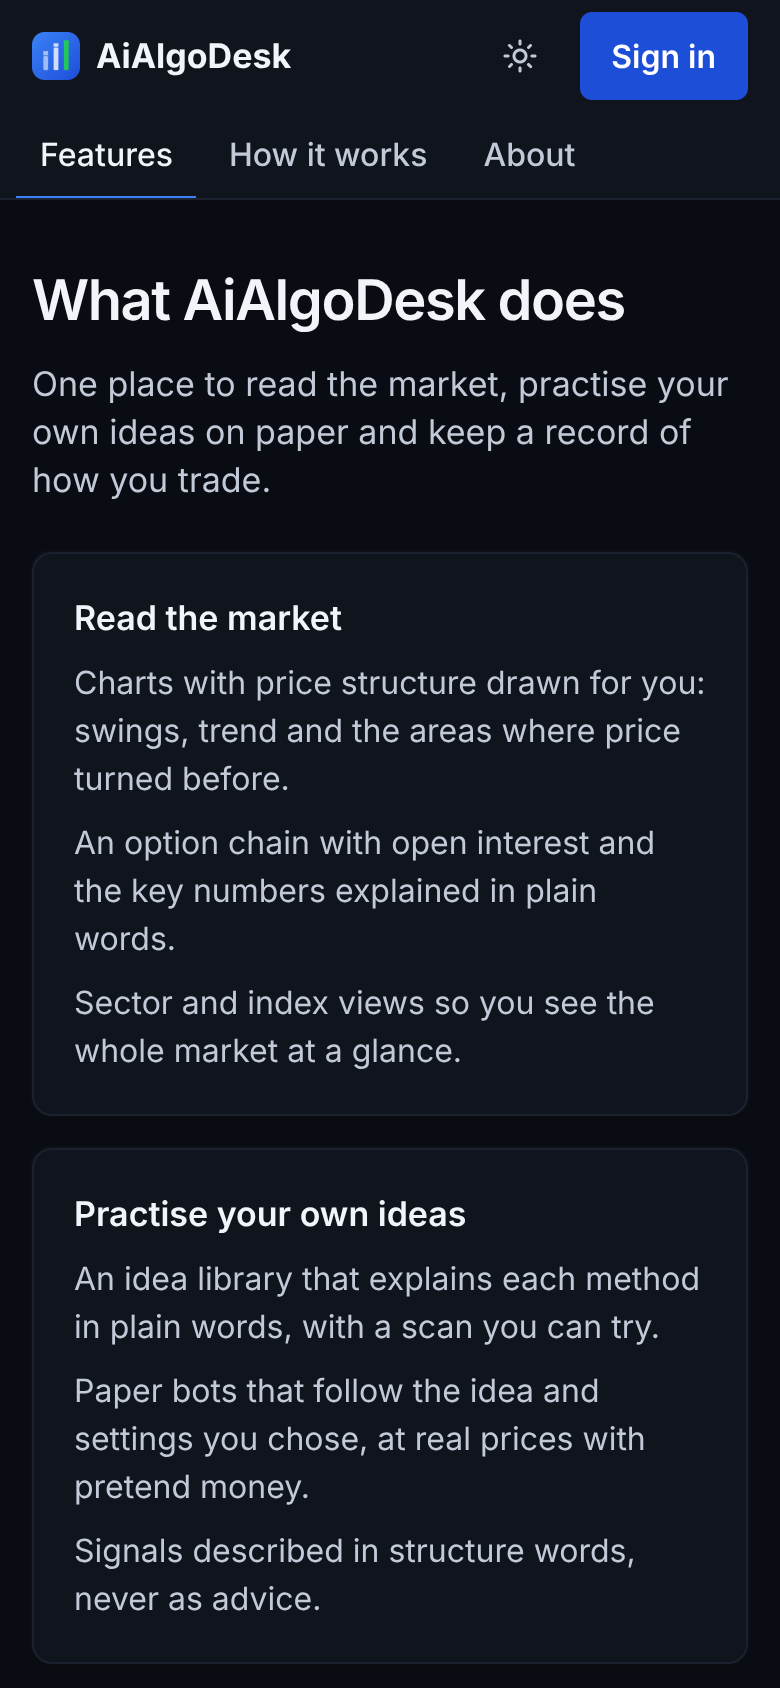
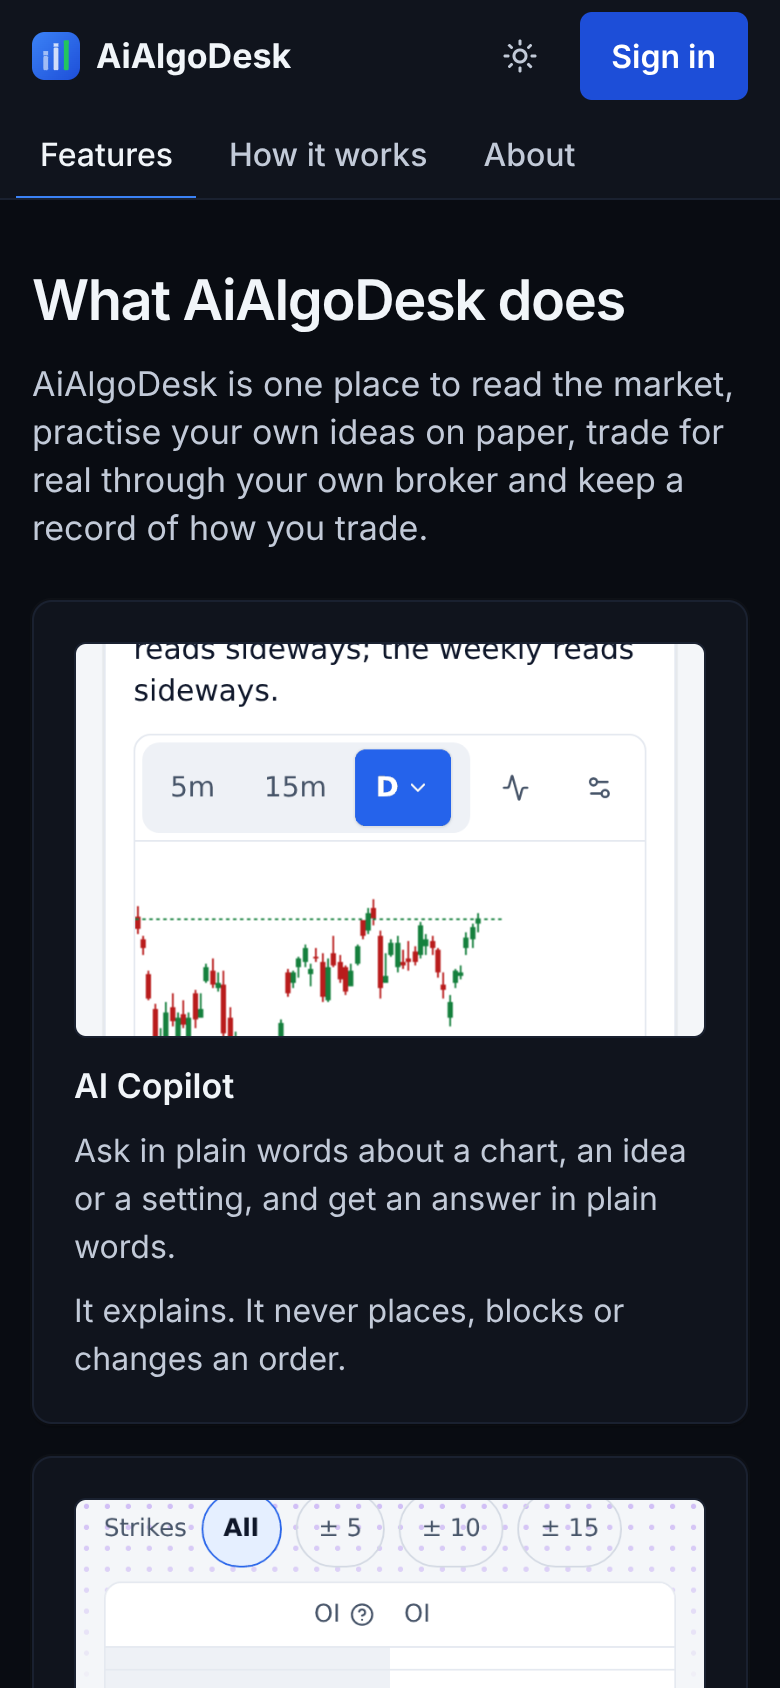
M95: Paper & Real Trading wording (front door, link preview, site) (#992)
* M95-Q8: Paper & Real Trading wording on the front door, link preview tags and site pages

Claude-Session: https://claude.ai/code/session_01DartbPxmHrAyA5TTsS4Pys

* M95-Q8: the link-preview image says Paper & Real Trading; preview proofs re-made

Claude-Session: https://claude.ai/code/session_01DartbPxmHrAyA5TTsS4Pys

* M95-Q8: sign-in and site e2e baselines; front door after screenshots (390 / 1440 light)

Claude-Session: https://claude.ai/code/session_01DartbPxmHrAyA5TTsS4Pys

* M95-Q8: the manifest's Features screenshots with the new intro

Claude-Session: https://claude.ai/code/session_01DartbPxmHrAyA5TTsS4Pys

---------

diff --git a/frontend/src/i18n/frontDoor.ts b/frontend/src/i18n/frontDoor.ts
@@ -8,11 +8,13 @@
  * src/auth/FrontDoor.tsx (and tests) may import this file.
  * Text rules (CLAUDE.md §3, M95 §4): no profit or accuracy claims, no testimonials, no trade-call words; the answers say
  * only what the code does. `{brokers}` and `{title}` are filled in by FrontDoor.tsx.
+ * M95-Q8 (owner, 11 Nov): the headline, the steps and one FAQ name both paper and real trading - real trading goes
+ * through the user's own broker and the user places every order; "Paper by default" stays (it is still true).
  */
 export const FRONT_EN = {
   langName: "English",
   langLabel: "Language",
-  headline: "Learn, analyse and practise trading on paper, for Indian markets.",
+  headline: "Paper & Real Trading for Indian markets: practise on paper, and trade for real with your own broker.",
   benefitsTitle: "What you get",
   copilotTitle: "AI Copilot",
   copilotText: "Ask about a chart or an idea in plain words. It explains; you decide.",
@@ -30,8 +32,8 @@ export const FRONT_EN = {
   stepsTitle: "Start in 3 steps",
   step1Google: "Continue with Google",
   step1Email: "Sign in with your email",
-  step2: "Connect your broker if you want live prices",
-  step3: "Practise on paper",
+  step2: "Connect your own broker for live prices and real trading",
+  step3: "Practise on paper first, then trade for real when you choose",
   trust1: "No order is placed without you",
   trust2: "Your broker data stays yours",
   trust3: "Paper by default",
@@ -45,6 +47,8 @@ export const FRONT_EN = {
   faqSafeA: "AiAlgoDesk does not hold your trading money; it stays in your own broker account. Your broker keys are stored encrypted. The AI never places, changes or blocks an order, and paper trading is the default.",
   faqPaperQ: "What is paper trading?",
   faqPaperA: "Practice trading with pretend money on market prices. The trades are recorded in the app only; no order goes to your broker.",
+  faqRealQ: "Can I trade for real?",
+  faqRealA: "Yes, through your own broker account, and you place every order yourself. Paper is the default.",
   videoLabel: "Watch the 60-second intro",
   footer: "Information and education only, not investment advice.",
 } as const;
@@ -52,7 +56,7 @@ export const FRONT_EN = {
 export const FRONT_MR = {
   langName: "मराठी",
   langLabel: "भाषा",
-  headline: "भारतीय बाजारासाठी: ट्रेडिंग शिका, चार्टचे विश्लेषण करा आणि paper वर सराव करा.",
+  headline: "भारतीय बाजारासाठी Paper & Real Trading: paper वर सराव करा, आणि तुमच्या स्वतःच्या broker मार्फत खरे ट्रेडिंग करा.",
   benefitsTitle: "तुम्हाला काय मिळते",
   copilotTitle: "AI Copilot",
   copilotText: "चार्ट किंवा कल्पनेबद्दल साध्या शब्दांत विचारा. तो समजावून सांगतो; निर्णय तुमचा.",
@@ -70,8 +74,8 @@ export const FRONT_MR = {
   stepsTitle: "3 पायऱ्यांत सुरुवात",
   step1Google: "Google ने पुढे जा",
   step1Email: "तुमच्या email ने sign in करा",
-  step2: "Live किमती हव्या असल्यास तुमचा broker जोडा",
-  step3: "Paper वर सराव करा",
+  step2: "Live किमती आणि खऱ्या ट्रेडिंगसाठी तुमचा स्वतःचा broker जोडा",
+  step3: "आधी paper वर सराव करा, मग हवे तेव्हा खरे ट्रेडिंग करा",
   trust1: "तुमच्याशिवाय कोणतीही order दिली जात नाही",
   trust2: "तुमचा broker data तुमचाच राहतो",
   trust3: "Paper हीच मूळ निवड",
@@ -85,6 +89,8 @@ export const FRONT_MR = {
   faqSafeA: "AiAlgoDesk तुमचे ट्रेडिंगचे पैसे ठेवत नाही; ते तुमच्या स्वतःच्या broker खात्यातच राहतात. तुमच्या broker keys encrypted ठेवल्या जातात. AI कधीही order देत, बदलत किंवा अडवत नाही, आणि paper ट्रेडिंग हीच मूळ निवड आहे.",
   faqPaperQ: "Paper trading म्हणजे काय?",
   faqPaperA: "बाजारभावावर काल्पनिक पैशांनी ट्रेडिंगचा सराव. हे trades फक्त app मध्ये नोंदवले जातात; broker कडे कोणतीही order जात नाही.",
+  faqRealQ: "खरे ट्रेडिंग करता येते का?",
+  faqRealA: "हो, तुमच्या स्वतःच्या broker खात्यातून, आणि प्रत्येक order तुम्ही स्वतः देता. Paper हीच मूळ निवड आहे.",
   videoLabel: "60 सेकंदांचा परिचय पाहा",
   footer: "फक्त माहिती आणि शिक्षणासाठी, गुंतवणुकीचा सल्ला नाही.",
 } as const;
@@ -92,7 +98,7 @@ export const FRONT_MR = {
 export const FRONT_HI = {
   langName: "हिन्दी",
   langLabel: "भाषा",
-  headline: "भारतीय बाज़ार के लिए: ट्रेडिंग सीखें, चार्ट का विश्लेषण करें और paper पर अभ्यास करें।",
+  headline: "भारतीय बाज़ार के लिए Paper & Real Trading: paper पर अभ्यास करें, और अपने ख़ुद के broker से असली ट्रेडिंग करें।",
   benefitsTitle: "आपको क्या मिलता है",
   copilotTitle: "AI Copilot",
   copilotText: "चार्ट या किसी विचार के बारे में आसान शब्दों में पूछें। वह समझाता है; फ़ैसला आपका।",
@@ -110,8 +116,8 @@ export const FRONT_HI = {
   stepsTitle: "3 कदमों में शुरुआत",
   step1Google: "Google से आगे बढ़ें",
   step1Email: "अपने email से sign in करें",
-  step2: "Live कीमतें चाहिए तो अपना broker जोड़ें",
-  step3: "Paper पर अभ्यास करें",
+  step2: "Live कीमतों और असली ट्रेडिंग के लिए अपना ख़ुद का broker जोड़ें",
+  step3: "पहले paper पर अभ्यास करें, फिर जब चाहें असली ट्रेडिंग करें",
   trust1: "आपके बिना कोई order नहीं दिया जाता",
   trust2: "आपका broker data आपका ही रहता है",
   trust3: "Paper ही मूल चुनाव है",
@@ -125,6 +131,8 @@ export const FRONT_HI = {
   faqSafeA: "AiAlgoDesk आपका ट्रेडिंग का पैसा नहीं रखता; वह आपके अपने broker खाते में ही रहता है। आपकी broker keys encrypted रखी जाती हैं। AI कभी order नहीं देता, नहीं बदलता और नहीं रोकता, और paper ट्रेडिंग ही मूल चुनाव है।",
   faqPaperQ: "Paper trading क्या है?",
   faqPaperA: "बाज़ार भाव पर काल्पनिक पैसों से ट्रेडिंग का अभ्यास। ये trades सिर्फ़ app में दर्ज होते हैं; broker को कोई order नहीं जाता।",
+  faqRealQ: "क्या असली ट्रेडिंग कर सकते हैं?",
+  faqRealA: "हाँ, अपने ख़ुद के broker खाते से, और हर order आप ख़ुद देते हैं। Paper ही मूल चुनाव है।",
   videoLabel: "60 सेकंड का परिचय देखें",
   footer: "सिर्फ़ जानकारी और शिक्षा के लिए, निवेश सलाह नहीं।",
 } as const;

diff --git a/frontend/index.html b/frontend/index.html
@@ -3,32 +3,33 @@
   <head>
     <meta charset="UTF-8" />
     <meta name="viewport" content="width=device-width, initial-scale=1.0, viewport-fit=cover, interactive-widget=resizes-content" />
-    <title>AiAlgoDesk · Learn to read the market and practise trading on paper</title>
-    <meta name="description" content="AI Copilot, option chain with OI and paper trading for Indian markets. Practise on paper with no money needed." />
+    <title>AiAlgoDesk · Paper & Real Trading for Indian markets</title>
+    <meta name="description" content="AI Copilot, option chain with OI, and paper and real trading for Indian markets. Practise on paper first; real trading goes through your own broker." />
     <!-- C13: SEO basics for the public front page. The public pages update the title, description and canonical address
          as they open (applySeo in src/site/site.ts) - in the browser only. M95 F1: link previews (WhatsApp, Telegram) do
          not run scripts, so they read the tags below on every address: plain words, the 1200 x 630 card
          (public/og/front-door.png, made by scripts/og-image/) and og:description in English + the same sentence in
-         Marathi (M95-Q5). No performance claims and no security names with prices (CLAUDE.md signal language). -->
+         Marathi (M95-Q5). M95-Q8: they name both paper and real trading (through the user's own broker). No
+         performance claims and no security names with prices (CLAUDE.md signal language). -->
     <link rel="canonical" href="https://aialgodesk.tech/" />
     <meta name="robots" content="index, follow" />
     <meta property="og:type" content="website" />
     <meta property="og:site_name" content="AiAlgoDesk" />
-    <meta property="og:title" content="AiAlgoDesk · Learn to read the market and practise trading on paper" />
-    <meta property="og:description" content="AI Copilot, option chain and paper trading for Indian markets. · भारतीय बाजारासाठी AI कोपायलट, ऑप्शन चेन आणि पेपर ट्रेडिंग." />
+    <meta property="og:title" content="AiAlgoDesk · Paper & Real Trading for Indian markets" />
+    <meta property="og:description" content="AI Copilot, option chain with OI, paper trading, and real trading through your own broker, for Indian markets. · भारतीय बाजारासाठी AI कोपायलट, ऑप्शन चेन, पेपर ट्रेडिंग आणि तुमच्या स्वतःच्या ब्रोकरमार्फत रिअल ट्रेडिंग." />
     <meta property="og:url" content="https://aialgodesk.tech/" />
     <meta property="og:image" content="https://aialgodesk.tech/og/front-door.png" />
     <meta property="og:image:secure_url" content="https://aialgodesk.tech/og/front-door.png" />
     <meta property="og:image:type" content="image/png" />
     <meta property="og:image:width" content="1200" />
     <meta property="og:image:height" content="630" />
-    <meta property="og:image:alt" content="AiAlgoDesk: an app screen with a daily index chart, and the words AI Copilot, Option chain with OI, Paper trading - no money needed" />
+    <meta property="og:image:alt" content="AiAlgoDesk: an app screen with a daily index chart, and the words AI Copilot, Option chain with OI, Paper & Real Trading - practise on paper first" />
     <meta property="og:locale" content="en_IN" />
     <meta name="twitter:card" content="summary_large_image" />
-    <meta name="twitter:title" content="AiAlgoDesk · Learn to read the market and practise trading on paper" />
-    <meta name="twitter:description" content="AI Copilot, option chain and paper trading for Indian markets." />
+    <meta name="twitter:title" content="AiAlgoDesk · Paper & Real Trading for Indian markets" />
+    <meta name="twitter:description" content="AI Copilot, option chain with OI, paper trading, and real trading through your own broker, for Indian markets." />
     <meta name="twitter:image" content="https://aialgodesk.tech/og/front-door.png" />
-    <meta name="twitter:image:alt" content="AiAlgoDesk: an app screen with a daily index chart, and the words AI Copilot, Option chain with OI, Paper trading - no money needed" />
+    <meta name="twitter:image:alt" content="AiAlgoDesk: an app screen with a daily index chart, and the words AI Copilot, Option chain with OI, Paper & Real Trading - practise on paper first" />
     <!-- PW1: installable app. The bar colour follows the theme (surface token, dark and light). -->
     <link rel="manifest" href="/manifest.webmanifest" />
     <meta name="theme-color" content="#090c12" media="(prefers-color-scheme: dark)" />

diff --git a/frontend/src/auth/frontDoor.test.tsx b/frontend/src/auth/frontDoor.test.tsx
@@ -48,7 +48,7 @@ describe("M95 F2: the front door on Sign in", () => {
     const out = html();
     expect(out).toContain('data-front-door=""');
     expect(out).toContain(">Sign in</h1>");                                         // the heading still works
-    expect(out).toContain(FRONT_EN.headline);
+    expect(text(out)).toContain(FRONT_EN.headline);
     expect(out.match(/data-front-benefit="/g)?.length).toBe(6);
     for (const title of [FRONT_EN.copilotTitle, FRONT_EN.chainTitle, FRONT_EN.setupsTitle, FRONT_EN.botTitle, FRONT_EN.journalTitle, FRONT_EN.reportTitle]) {
       expect(text(out)).toContain(title);
@@ -74,16 +74,27 @@ describe("M95 F2: the front door on Sign in", () => {
     expect(screenSource).not.toContain("Information and education, not investment advice.");
   });
 
-  it("the FAQ: four questions, each folded inside <details>", () => {
+  it("the FAQ: five questions, each folded inside <details>", () => {
     const out = html();
     const faq = out.match(/<div[^>]*data-front-faq[^>]*>[\s\S]*?<\/div>/)?.[0] ?? "";
-    expect(faq.match(/<details/g)?.length).toBe(4);
+    expect(faq.match(/<details/g)?.length).toBe(5);
     expect(faq).not.toMatch(/<details[^>]*\bopen\b/);
     expect(faq).toContain("What does it cost?");
     expect(faq).toContain("Free during the beta.");
     expect(faq).toContain("Which brokers can I connect?");
     expect(faq).toContain("Is my money safe?");
     expect(faq).toContain("What is paper trading?");
+    // M95-Q8 (owner, 11 Nov): real trading goes through the user's own broker, the user places every order, paper is the default.
+    expect(faq).toContain("Can I trade for real?");
+    expect(faq).toContain("Yes, through your own broker account, and you place every order yourself. Paper is the default.");
+  });
+
+  it("M95-Q8: the headline and the steps name both paper and real trading, in every language", () => {
+    expect(FRONT_EN.headline).toBe("Paper & Real Trading for Indian markets: practise on paper, and trade for real with your own broker.");
+    for (const t of [FRONT_EN, FRONT_MR, FRONT_HI]) expect(t.headline).toContain("Paper & Real Trading");
+    const out = html();
+    expect(out).toContain("Connect your own broker for live prices and real trading");
+    expect(out).toContain("Practise on paper first, then trade for real when you choose");
   });
 
   it("the broker answer reads the server's list, else a plain sentence", () => {
@@ -170,14 +181,14 @@ describe("M95 F5: English / Marathi / Hindi", () => {
   it("a stored Marathi choice shows the same content in Marathi; the form and the footer sentence stay English", () => {
     vi.stubGlobal("window", { localStorage: storage({ [FRONT_LANG_KEY]: "mr" }) });
     const out = html();
-    expect(out).toContain(FRONT_MR.headline);
+    expect(text(out)).toContain(FRONT_MR.headline);
     expect(out).toContain(FRONT_MR.trust1);
     expect(out).toContain(FRONT_MR.faqCostA);
     expect(out).toContain(FRONT_MR.footer);
     expect(out).toContain('lang="mr"');
     expect(out).toContain(">Sign in</h1>");
     expect(out).toContain(">Information and education only, not investment advice.</p>");
-    expect(out).not.toContain(FRONT_EN.headline);
+    expect(text(out)).not.toContain(FRONT_EN.headline);
   });
 });
 

diff --git a/frontend/src/site/site.test.tsx b/frontend/src/site/site.test.tsx
@@ -59,13 +59,17 @@ describe("the pages", () => {
 
   it("M95 F7: three steps, the trust lines and the FAQ in folds", () => {
     const how = PAGES.find((p) => p.slug === "how-it-works")!;
-    expect(how.sections.map((s) => s.heading)).toEqual(["Continue with Google", "Connect your broker if you want live prices", "Practise on paper"]);
+    expect(how.sections.map((s) => s.heading)).toEqual([
+      "Continue with Google", "Connect your own broker for live prices and real trading", "Practise on paper first, then trade for real when you choose"]);
     const about = PAGES.find((p) => p.slug === "about")!;
     const out = html(about);
     for (const line of ["No order is placed without you", "Your broker data stays yours", "Paper by default"]) expect(readable(out)).toContain(line);
-    expect(about.faq?.map((q) => q.question)).toEqual(["What does it cost?", "Which brokers can I connect?", "Is my money safe?", "What is paper trading?"]);
+    expect(about.faq?.map((q) => q.question)).toEqual([
+      "What does it cost?", "Which brokers can I connect?", "Is my money safe?", "What is paper trading?", "Can I trade for real?"]);
+    // M95-Q8 (owner, 11 Nov): real trading through the user's own broker, every order placed by the user, paper the default.
+    expect(about.faq?.[4].answer).toBe("Yes, through your own broker account, and you place every order yourself. Paper is the default.");
     expect(about.faq?.[0].answer).toBe("Free during the beta.");
-    expect(out.match(/<details/g)).toHaveLength(4);
+    expect(out.match(/<details/g)).toHaveLength(5);
     expect(out).not.toMatch(/<details[^>]*\bopen\b/);
     for (const q of about.faq!) { expect(readable(out)).toContain(q.question); expect(readable(out)).toContain(q.answer); }
   });

diff --git a/frontend/scripts/og-image/card.html b/frontend/scripts/og-image/card.html
@@ -18,6 +18,7 @@
   li { display: flex; align-items: center; gap: 14px; font-size: 25px; font-weight: 600; color: #e2e8f0; }
   li i { flex: none; width: 30px; height: 30px; border-radius: 9px; display: grid; place-items: center;
     background: rgba(34,197,94,0.16); color: #22c55e; font-style: normal; font-size: 19px; font-weight: 800; }
+  li small { display: block; margin-top: 2px; font-size: 19px; font-weight: 500; color: #94a3b8; }
   .site { position: absolute; left: 64px; bottom: 44px; font-size: 22px; font-weight: 600; color: #93c5fd; }
   .shot { position: absolute; left: 574px; top: 54px; width: 660px; border-radius: 18px; overflow: hidden;
     border: 1px solid rgba(148,163,184,0.28); box-shadow: 0 30px 80px rgba(0,0,0,0.55), 0 0 0 6px rgba(59,130,246,0.08); }
@@ -32,7 +33,7 @@
     <ul>
       <li><i>&#10003;</i>AI Copilot</li>
       <li><i>&#10003;</i>Option chain with OI</li>
-      <li><i>&#10003;</i>Paper trading - no money needed</li>
+      <li><i>&#10003;</i><span>Paper &amp; Real Trading<small>practise on paper first</small></span></li>
     </ul>
   </div>
   <div class="site">aialgodesk.tech</div>

diff --git a/frontend/src/auth/FrontDoor.tsx b/frontend/src/auth/FrontDoor.tsx
@@ -163,7 +163,7 @@ export function FrontDoorDetails({ t, googleOn, brokers, videoUrl }: {
       <section aria-labelledby="front-faq">
         <h2 id="front-faq" className="text-t15 font-semibold text-fg">{t.faqTitle}</h2>
         <div className="mt-space-3 divide-y divide-subtle overflow-hidden rounded-panel border border-subtle bg-surface-1" data-front-faq>
-          {[[t.faqCostQ, t.faqCostA], [t.faqBrokersQ, brokersAnswer(t, brokers)], [t.faqSafeQ, t.faqSafeA], [t.faqPaperQ, t.faqPaperA]].map(([q, a]) => (
+          {[[t.faqCostQ, t.faqCostA], [t.faqBrokersQ, brokersAnswer(t, brokers)], [t.faqSafeQ, t.faqSafeA], [t.faqPaperQ, t.faqPaperA], [t.faqRealQ, t.faqRealA]].map(([q, a]) => (
             <details key={q} className="group">
               <summary className={`flex min-h-12 cursor-pointer list-none items-center justify-between gap-space-3 px-space-4 text-t14 font-medium text-fg ${FOCUS}`}>
                 <span>{q}</span>

diff --git a/backend/tests/test_c13_learning.py b/backend/tests/test_c13_learning.py
@@ -213,6 +213,12 @@ def test_site_pages_are_public_and_follow_the_global_flag():
             s["heading"] for s in pages["about"]["sections"]}
         faq = {q["question"]: q["answer"] for q in pages["about"]["faq"]}
         assert faq["What does it cost?"] == "Free during the beta."
+        # M95-Q8 (owner, 11 Nov): the pages name both paper and real trading; real trading is through the user's own broker,
+        # the user places every order, and paper stays the default.
+        assert faq["Can I trade for real?"] == "Yes, through your own broker account, and you place every order yourself. Paper is the default."
+        assert "Paper and real trading" in pages["features"]["description"]
+        assert [s["heading"] for s in pages["how-it-works"]["sections"]][1:] == [
+            "Connect your own broker for live prices and real trading", "Practise on paper first, then trade for real when you choose"]
     finally:
         _global("marketing_site", False)
     assert client.get("/api/site/pages").status_code == 404

diff --git a/scripts/check_public_repo.py b/scripts/check_public_repo.py
@@ -163,7 +163,7 @@ ALLOWED_TEST_DATA: Dict[str, str] = {
[1 lines of base64/hex data omitted]
     # Readiness C13: the Learn page and the marketing pages, the server's own hand-written payloads (backend/tests/test_c13_learning.py).
[3 lines of base64/hex data omitted]
     # made-up rows in NSE's file layouts (the universe importer's tests)
[2 lines of base64/hex data omitted]
